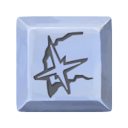
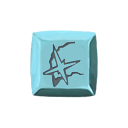
Hermit and Awakened One proper buttons

diff --git a/src/main/java/hermit/characters/hermit.java b/src/main/java/hermit/characters/hermit.java
@@ -297,6 +297,11 @@ public class hermit extends CustomPlayer {
         return effects;
     }
 
+    @Override
+    public Texture getCustomModeCharacterButtonImage() {
+        return downfall.util.TextureLoader.getTexture(getModID() + "Resources/images/charSelect/leaderboard.png");
+    }
+
     public void damage(DamageInfo info) {
         if (info.owner != null && info.type != DamageInfo.DamageType.THORNS && info.output - this.currentBlock > 0) {
             AnimationState.TrackEntry e;
